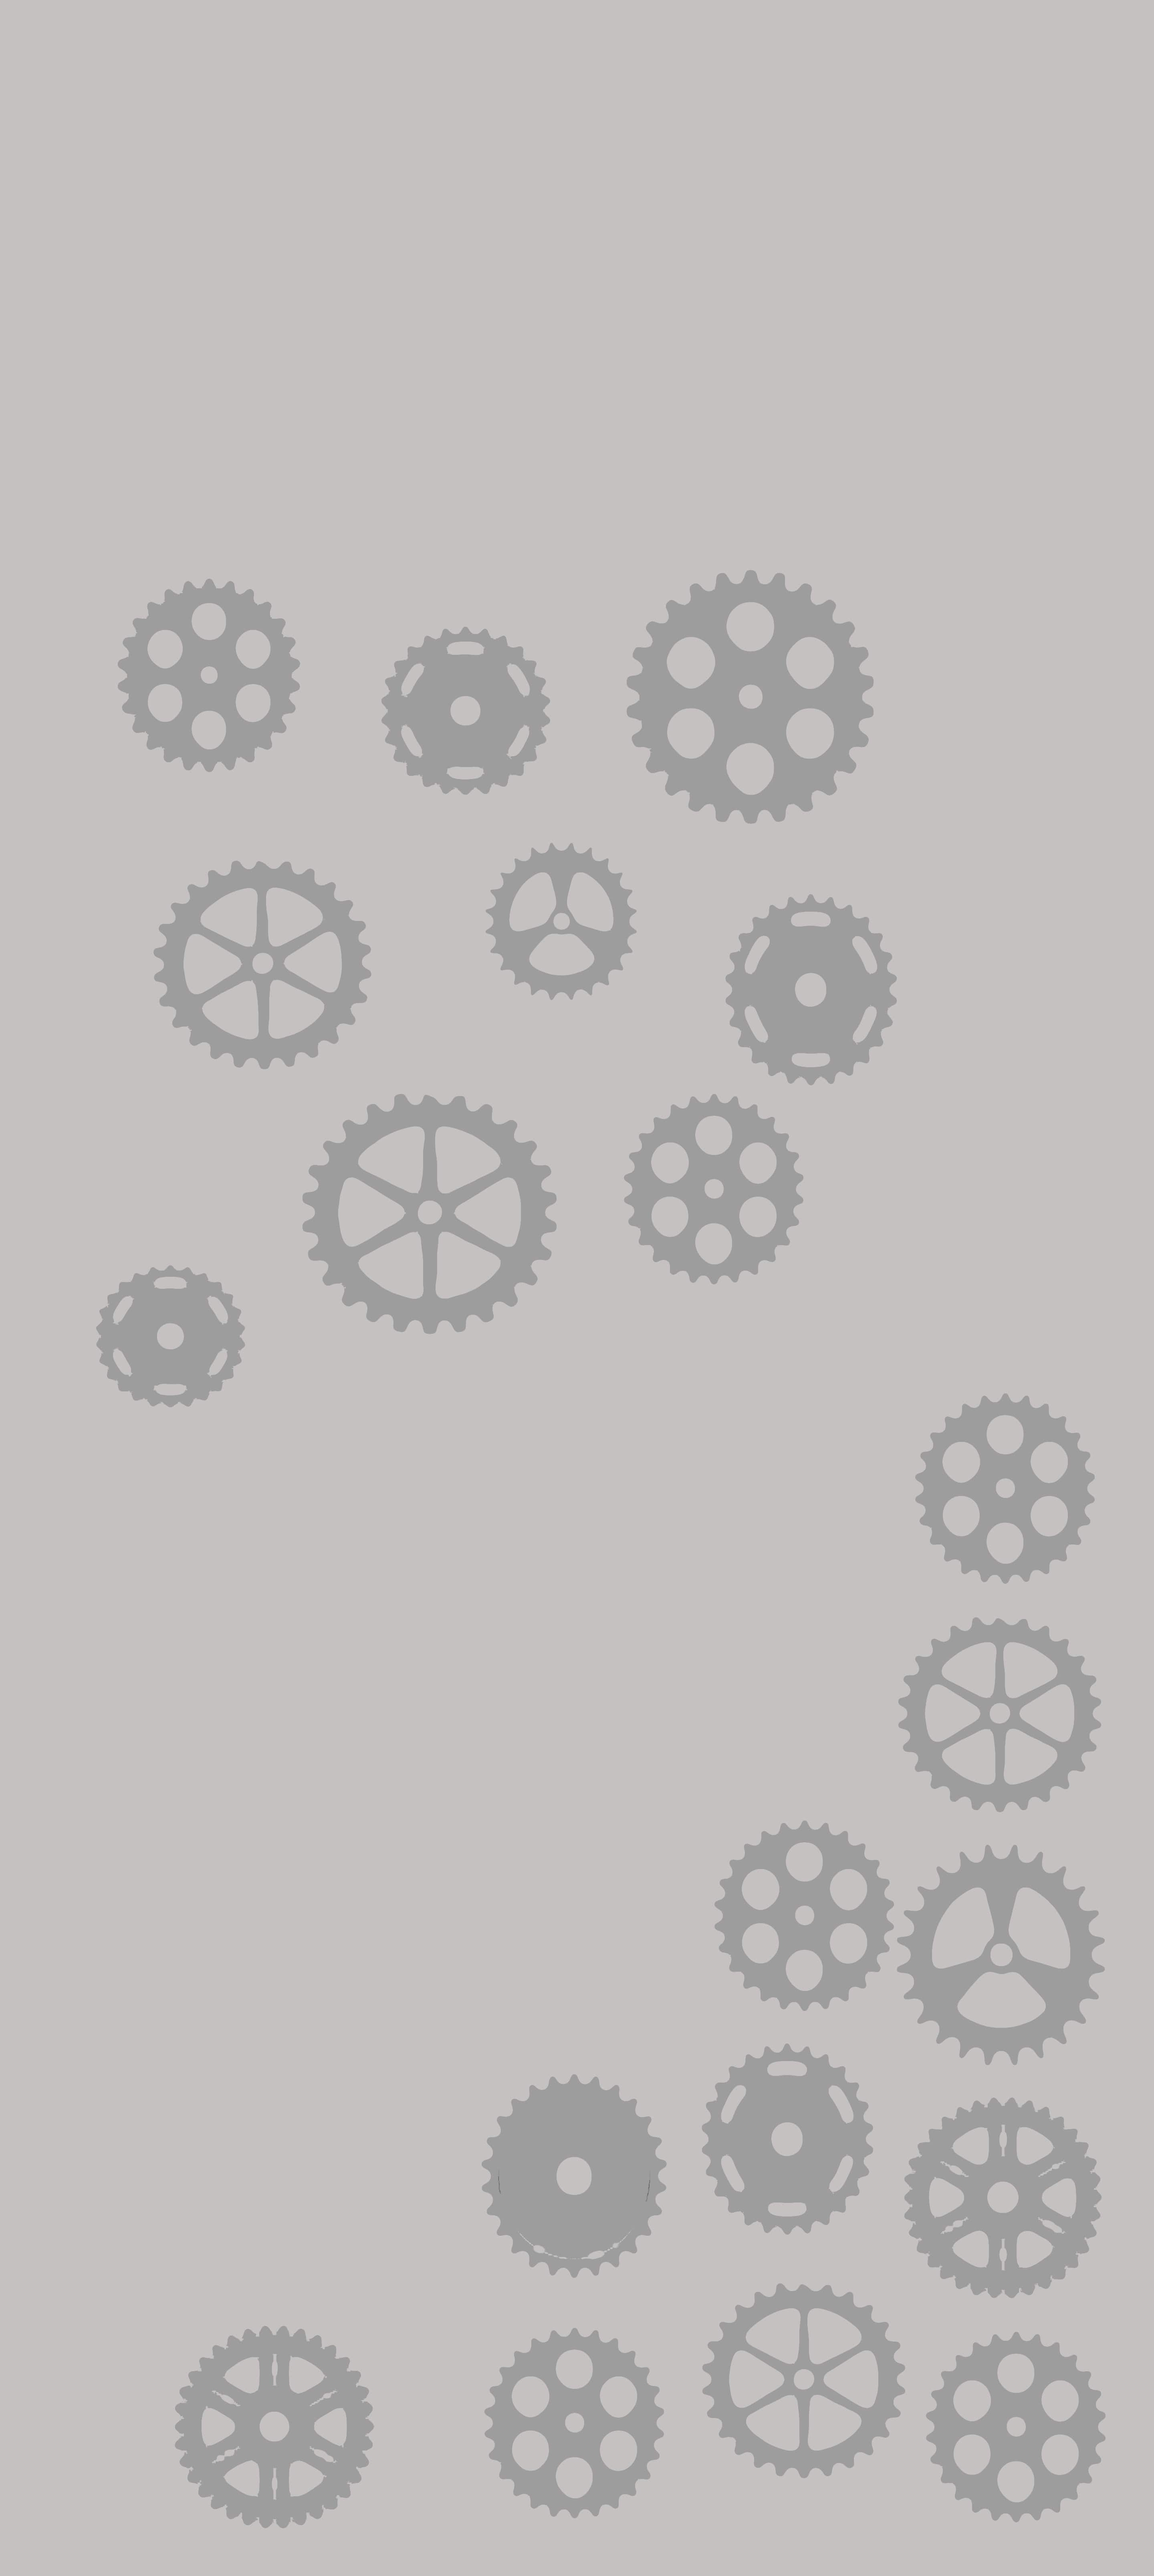
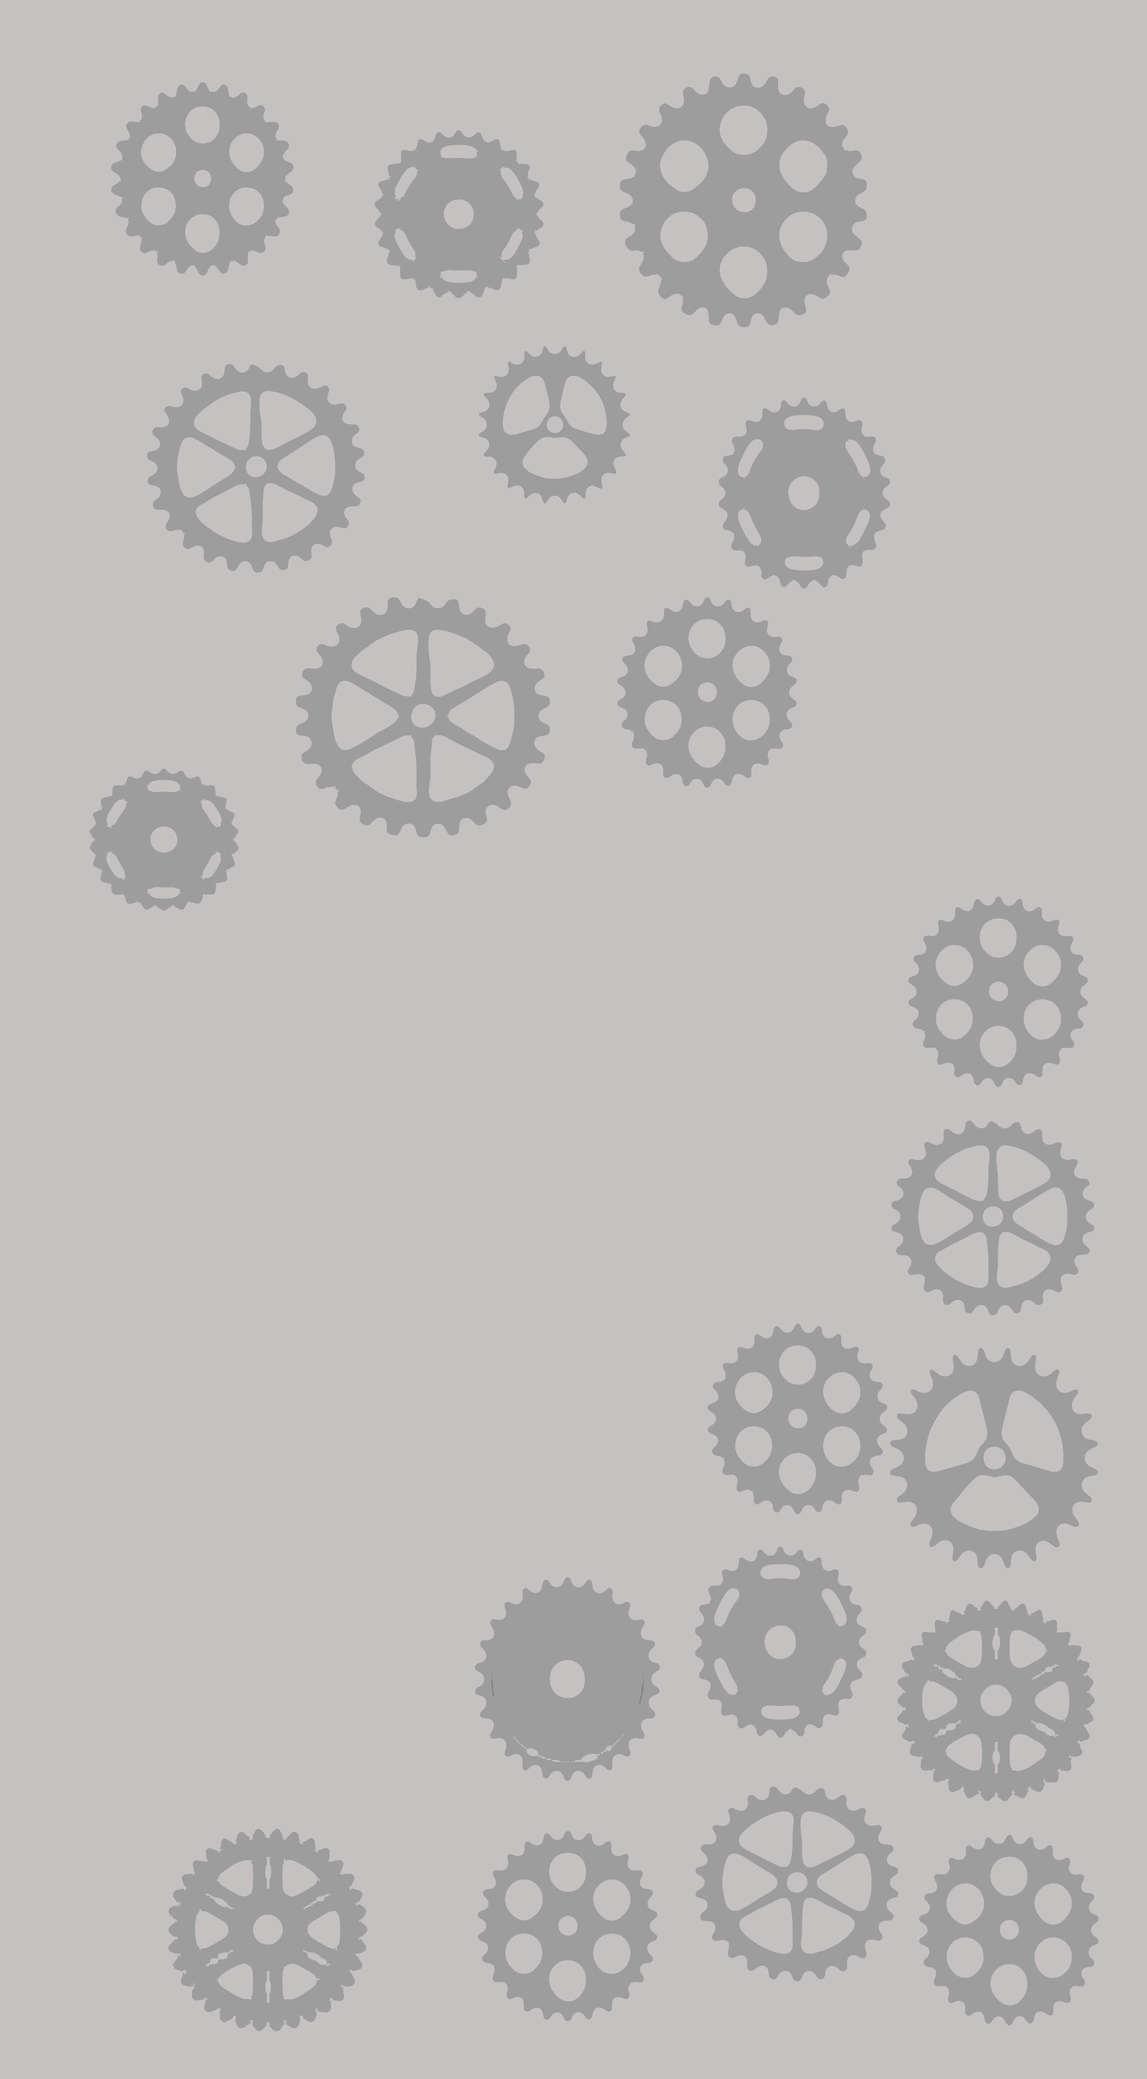
shortened background

diff --git a/src/static_files/css/shop.css b/src/static_files/css/shop.css
@@ -14,7 +14,7 @@ body
 img.motori-bg
 {
 	position: absolute;
-	margin-top: 28vw;
+	margin-top: 1vw;
 }
 div.header
 {
@@ -289,7 +289,7 @@ background-color: #9a9f9d;
 color: white;
 border:none;
 padding: 0.2vw;
-margin-top: 0.3vw;
+margin-top: 0.4vw;
 width: 20vw;
 text-align: center;
 margin-left: 10vw;
@@ -1355,7 +1355,7 @@ span.img16
 img.footer-bg
 {
 	position: absolute;
-	margin-top: 131vw;
+	margin-top: 90vw;
 }
 
 @media only screen and (max-width:640px)
@@ -1412,12 +1412,13 @@ div.footer > div.footer-mechanic-logo
 div.footer > div.footer-text
 {
 	position: absolute;
-	line-height: 3vw;
+	line-height: 3.5vw;
 	font-family: BMitra;
-	font-size: 2vw;
+	font-size: 2.5vw;
 	color: white;
-	margin-left: 90%;
-margin-top:136.5vw;
+	margin-left: 85%;
+margin-top:93.5vw;
+	text-align: right;
 }
 @media only screen and (max-width:640px)
 {
@@ -1430,7 +1431,7 @@ margin-top:136.5vw;
 }
 div.footer > div.footer-text2
 {
-	margin-left: 70%;
+	margin-left: 65%;
 }
 @media only screen and (max-width:640px)
 {
@@ -2001,10 +2002,10 @@ div.star-rating4 {
 	}
 img.Drmotori-logo 
 {
-	height: 25vw;
+	height: 23vw;
 	position: absolute;
-	width: 34vw;
-	margin-top: 128.46vw;
+	width: 31vw;
+	margin-top: 86.46vw;
 	margin-left: -2vw;
 }
 .problem
